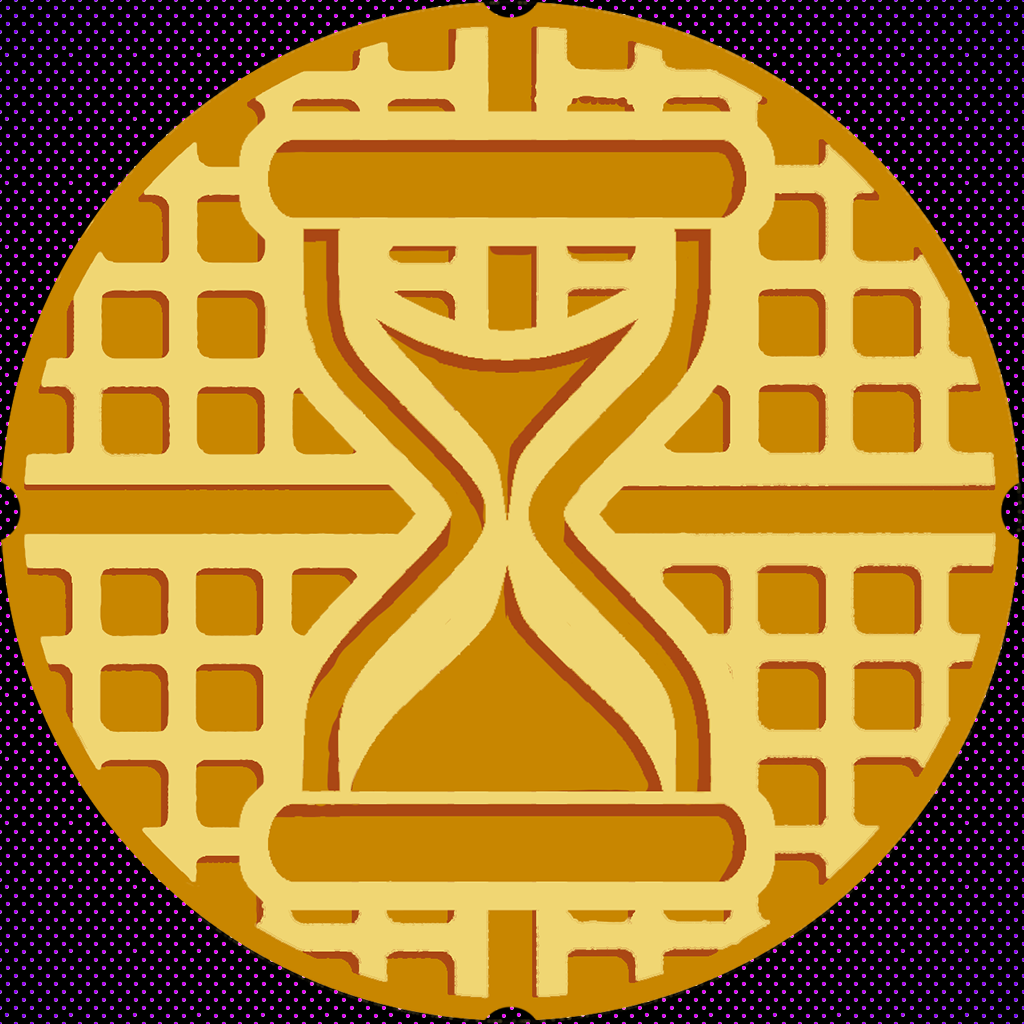
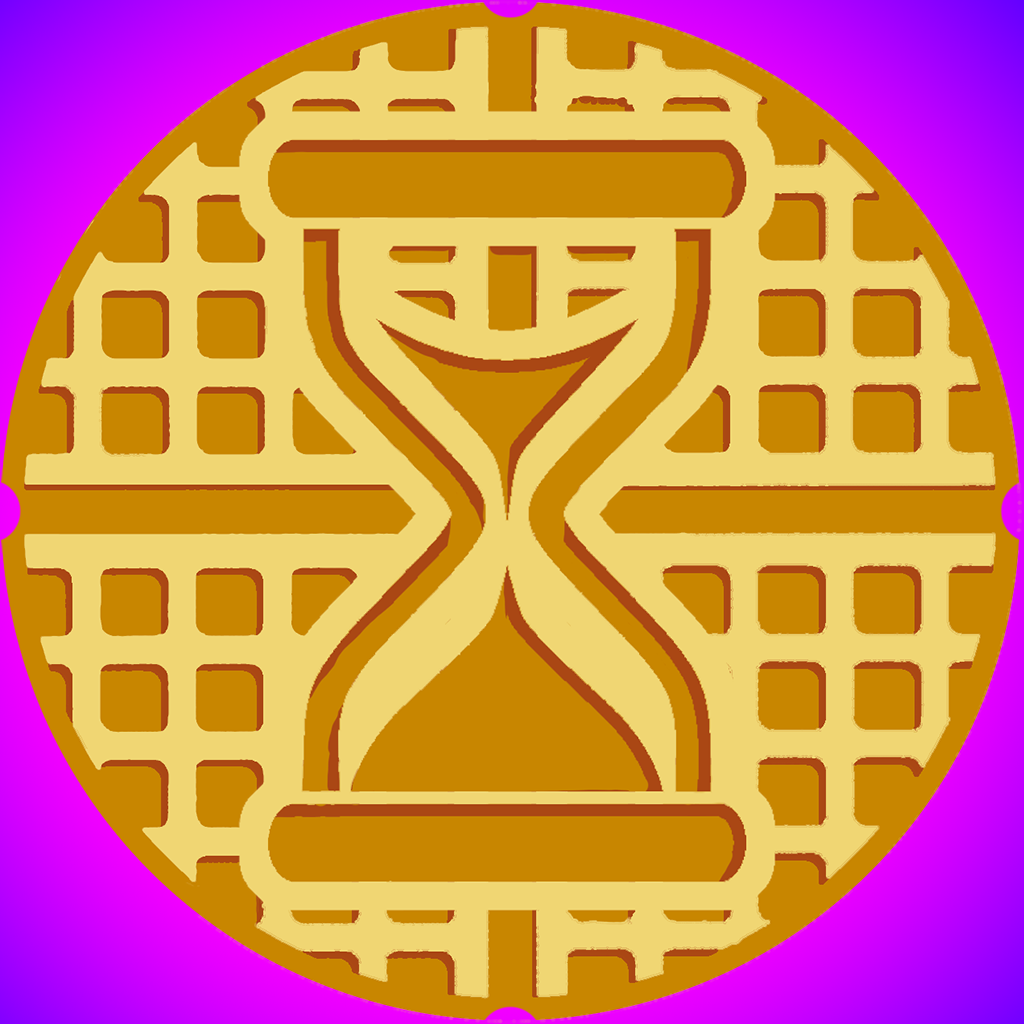
remove win98 and mouse move listener, adjust textures

Changed region(s): [[0.0, 0.0, 1.0, 1.0]]

diff --git a/index.html b/index.html
@@ -1,10 +1,90 @@
 <!DOCTYPE html>
 <html>
-<body>
-<script type="text/javascript">
-<!--
-window.location = "./maze.html"
-//-->
+
+<style>
+html, body {
+  width:  100%;
+  height: 100%;
+  margin: 0;
+}
+</style>
+
+<script id="vertex-shader" type="x-shader/x-vertex">
+
+attribute  vec4 vPosition;
+attribute  vec4 vColor;
+attribute vec2 vTexCoord;
+
+varying vec4 fColor;
+varying vec2 fTexCoord;
+varying mat4 fDrainMatrix;
+
+uniform mat4 modelViewMatrix;
+uniform mat4 projectionMatrix;
+uniform mat4 scaleMatrix;
+uniform vec4 cameraPos;
+
+uniform int lighting;
+
+void main() 
+{
+    gl_Position = projectionMatrix*modelViewMatrix*scaleMatrix*vPosition;
+    fColor = vColor;
+	fTexCoord = vTexCoord;
+	float distance = distance(vPosition,cameraPos);
+	float drain = (distance < 3.0) ? 1.0 : (3.0/distance - 0.2)/0.8;
+
+	if(lighting==0) drain = 1.0;
+
+	fDrainMatrix = mat4(	drain,  0.0,	0.0,	0.0,
+		  		  			0.0,	drain,  0.0,	0.0,
+		    				0.0,	0.0,	drain,	0.0,
+		    				0.0,	0.0,	0.0,	1.0 );
+} 
 </script>
+
+<script id="fragment-shader" type="x-shader/x-fragment">
+
+precision mediump float;
+
+uniform int i;
+
+varying vec4 fColor;
+varying vec2 fTexCoord;
+varying mat4 fDrainMatrix;
+
+uniform sampler2D floor;
+uniform sampler2D wall;
+uniform sampler2D ceiling;
+uniform sampler2D pic;
+uniform sampler2D start;
+uniform sampler2D fin;
+uniform sampler2D open;
+uniform sampler2D rat;
+
+void main()
+{
+
+    if(i==1) gl_FragColor = fDrainMatrix*texture2D(floor, fTexCoord);
+    else if(i==2) gl_FragColor = fDrainMatrix*texture2D(ceiling, fTexCoord);
+    else if(i==3) gl_FragColor = fDrainMatrix*texture2D(pic, fTexCoord);
+    else if(i==4) gl_FragColor = vec4(texture2D(start, fTexCoord).rgb,texture2D(start, fTexCoord).a*.5);
+    else if(i==5) gl_FragColor = vec4(texture2D(fin, fTexCoord).rgb,texture2D(fin, fTexCoord).a*.5);
+    else if(i==6) gl_FragColor = vec4(texture2D(open, fTexCoord).rgb,texture2D(open, fTexCoord).a*.5);
+    else if(i==7) gl_FragColor = texture2D(rat, fTexCoord);
+    else if(i==8) gl_FragColor = fColor;
+	else gl_FragColor = fDrainMatrix*texture2D(wall, fTexCoord);
+}
+</script>
+
+<script type="text/javascript" src="webgl-utils.js"></script>
+<script type="text/javascript" src="initShaders.js"></script>
+<script type="text/javascript" src="MV.js"></script>
+<script type="text/javascript" src="maze.js"></script>
+
+<body>
+<canvas id="gl-canvas" width="683" height="512">
+Oops ... your browser doesn't support the HTML5 canvas element
+</canvas>
 </body>
 </html>

diff --git a/maze.js b/maze.js
@@ -32,7 +32,7 @@ var height =0;
 
 var near = 0.01;
 var far = 50.0;
-var fovy = 90;  // Field-of-view in Y direction angle (in degrees)
+var fovy = 100;  // Field-of-view in Y direction angle (in degrees)
 var aspect;     // Viewport aspect ratio
 var eye, at, up;
 
@@ -249,21 +249,21 @@ window.onload = function() {
 
 									render(); 
 								};
-								ratImg.src = './rat.png'; 
+								ratImg.src = './furret.png'; 
 							};
-							openImg.src = './gl.png'; 
+							openImg.src = './IHOTT-2077.png'; 
 						};
 						finImg.src = './fin.png'; 
 					};
 					startImg.src = './start2.png'; 
 				};
-				picImg.src = './pic.bmp'; 
+				picImg.src = './restaurant.png'; 
 			};
-			ceilingImg.src = './pretty-circle.gif';
+			ceilingImg.src = './seamless-space.png';
 		};
-		floorImg.src = './floor.bmp';
+		floorImg.src = './dot-gradient.png';
 	};
-	wallImg.src = './2d_time_waffle-dots.png';    
+	wallImg.src = './2d_time_waffle-gradient.png';    
 	       
 }
 
@@ -477,14 +477,6 @@ var render = function(){
 			lighting=!lighting;
 		}
 	}
-	canvas.addEventListener("mousemove", function() {
-		var curTime = new Date();
-		if (curTime-startTime>3000){
-			window.location.href = "desktop/index.html"
-			startTime = curTime;
-		}
-	});
-
 
 	gl.uniform1i(gl.getUniformLocation(program, "lighting"),lighting);
 
@@ -527,6 +519,8 @@ var render = function(){
 		}
 	} else { 
 		[theta,eyeX,eyeY,dtheta,deyeX,deyeY]=nextMove(theta,eyeX,eyeY,dtheta,deyeX,deyeY);
+
+		// whyyyyy do they call this twice?? rotates super slow if not
 		[theta,eyeX,eyeY,dtheta,deyeX,deyeY]=nextMove(theta,eyeX,eyeY,dtheta,deyeX,deyeY);
 	}
 	[rattheta,ratX,ratY,ratdtheta,ratdX,ratdY]=nextMove(rattheta,ratX,ratY,ratdtheta,ratdX,ratdY);
@@ -583,6 +577,7 @@ function nextMove(theta,X,Y,dtheta,dX,dY)
 	if (degtheta %90) {
 		return [theta+dtheta,X,Y,dtheta,dX,dY];
 	} else if ((X+.5)%1 || (Y+.5)%1) {
+		// here's where i'd adjust the dx and dy applied... but sometimes that messes things up??
 		return [theta,X+dX,Y+dY,dtheta,dX,dY];
 	} else {//new move
 		var direction = ((degtheta %360 /90)+5 )%4;		
